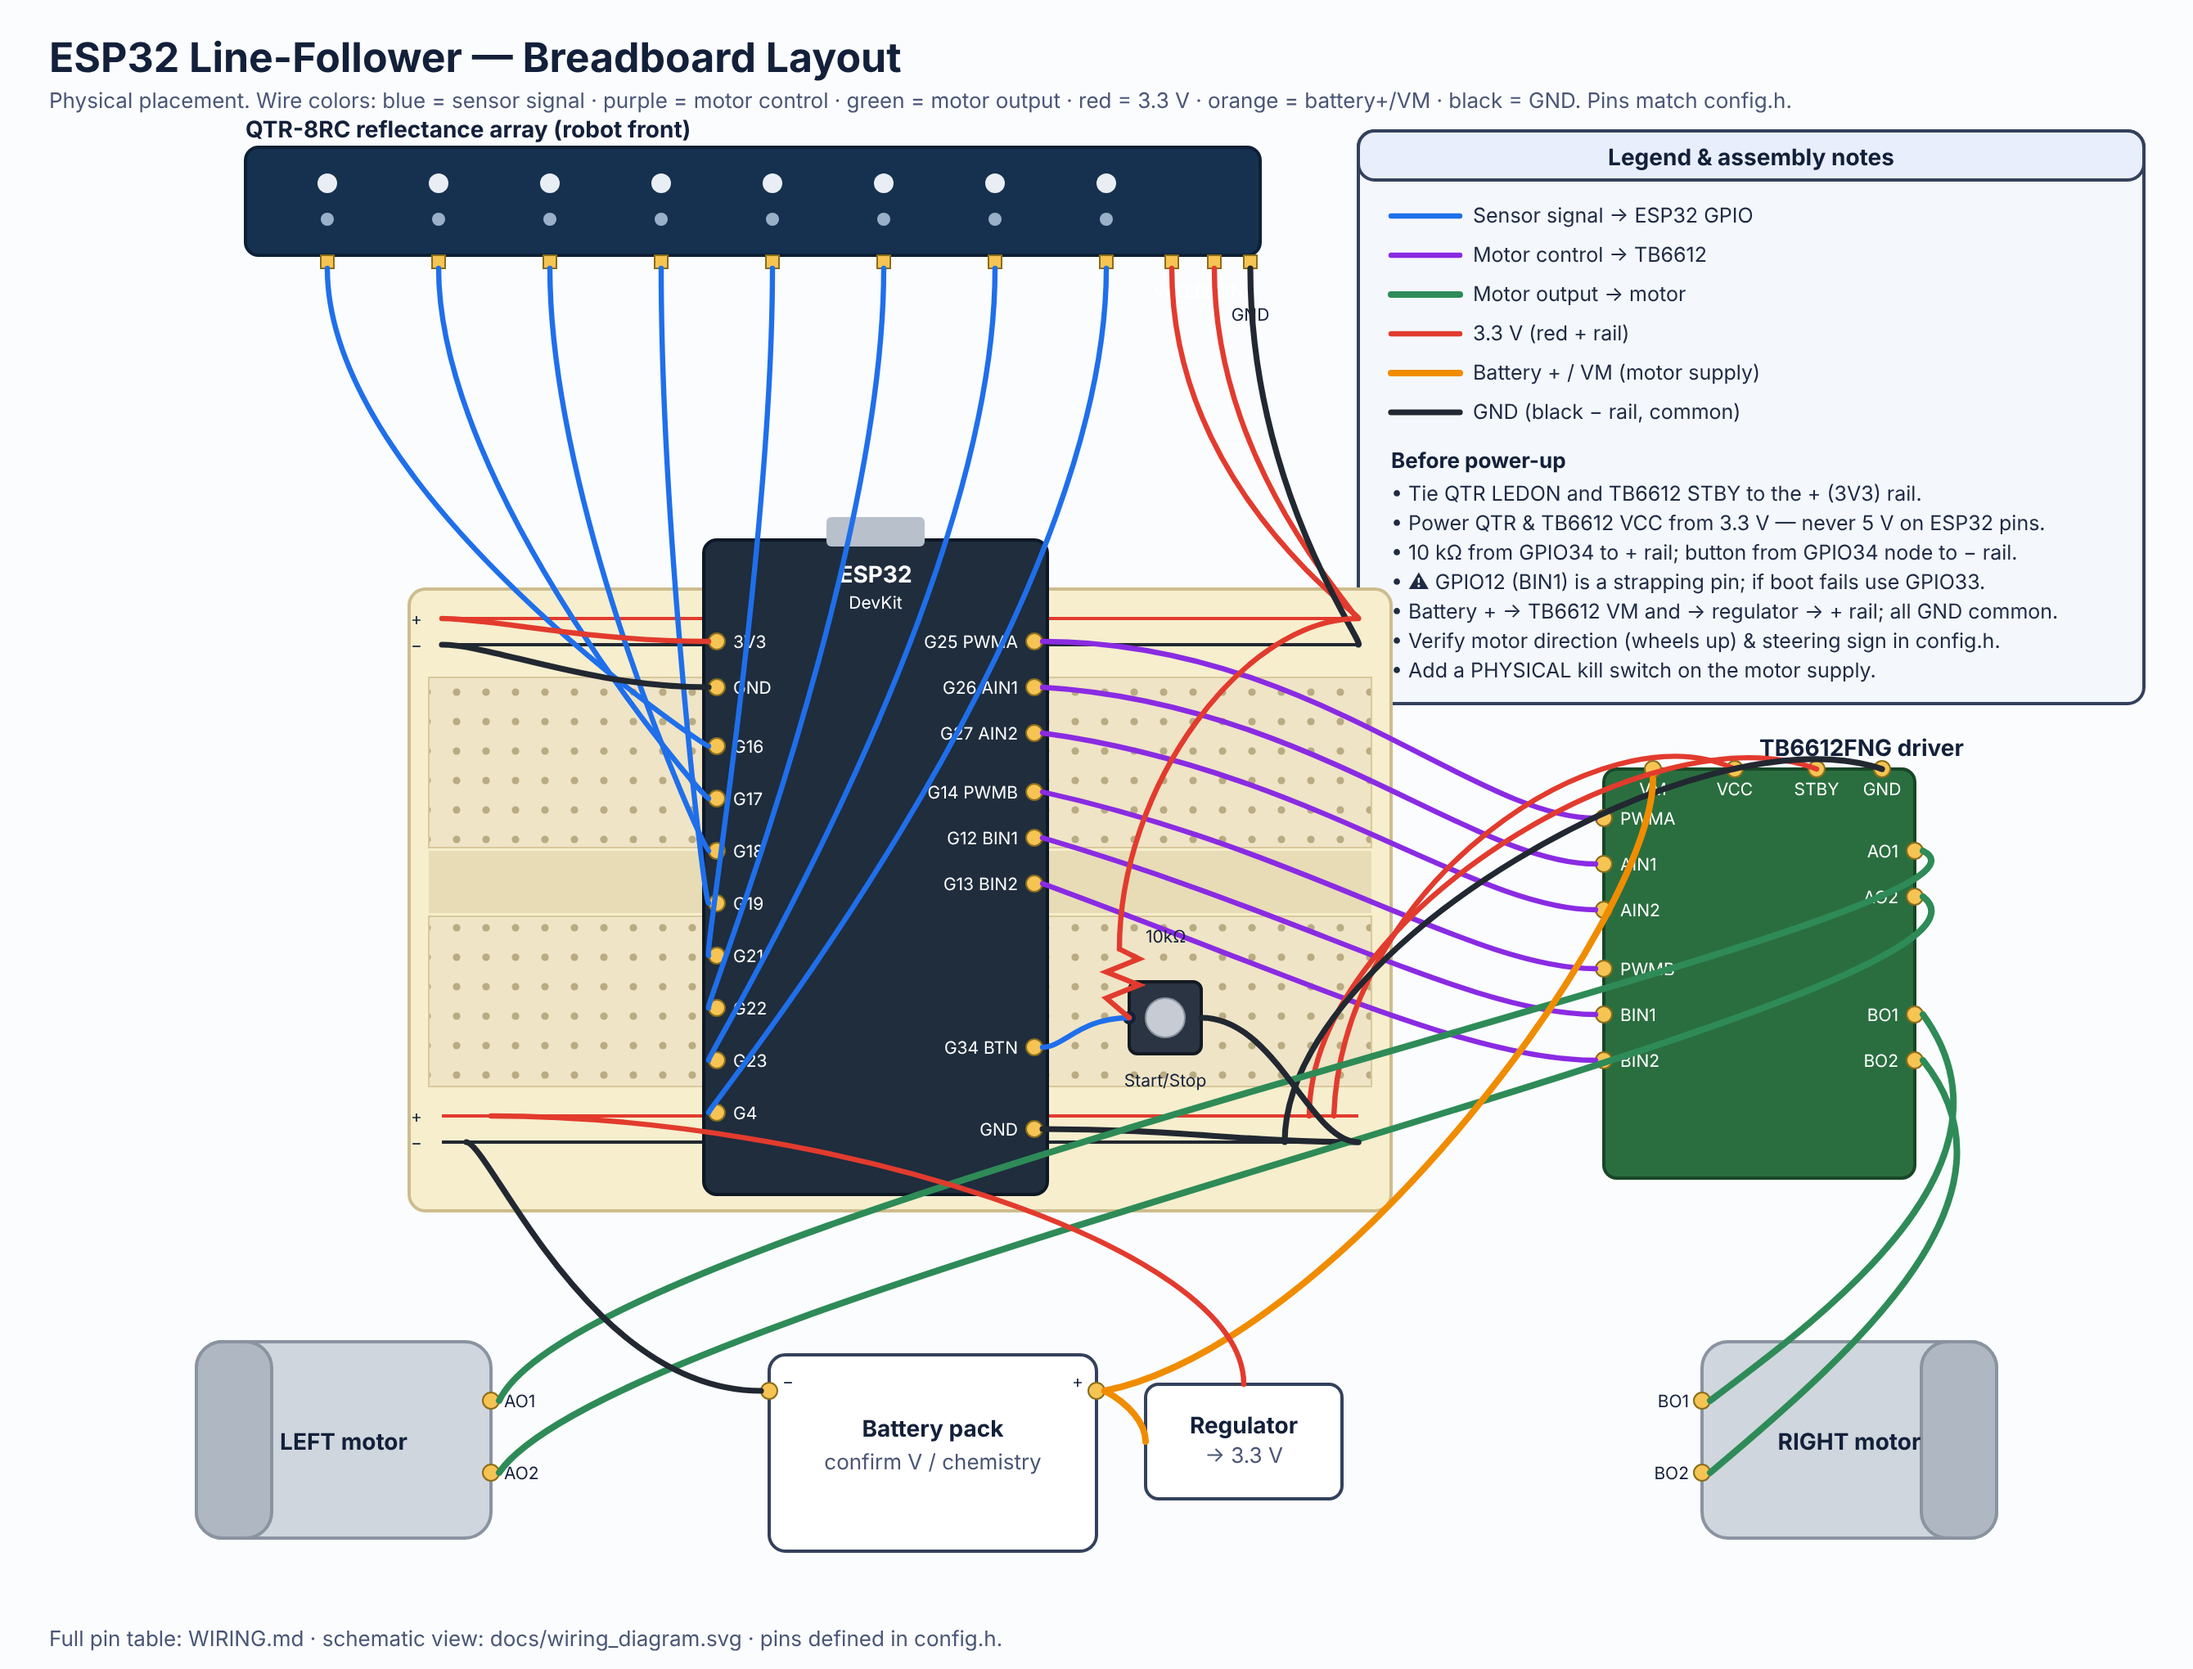
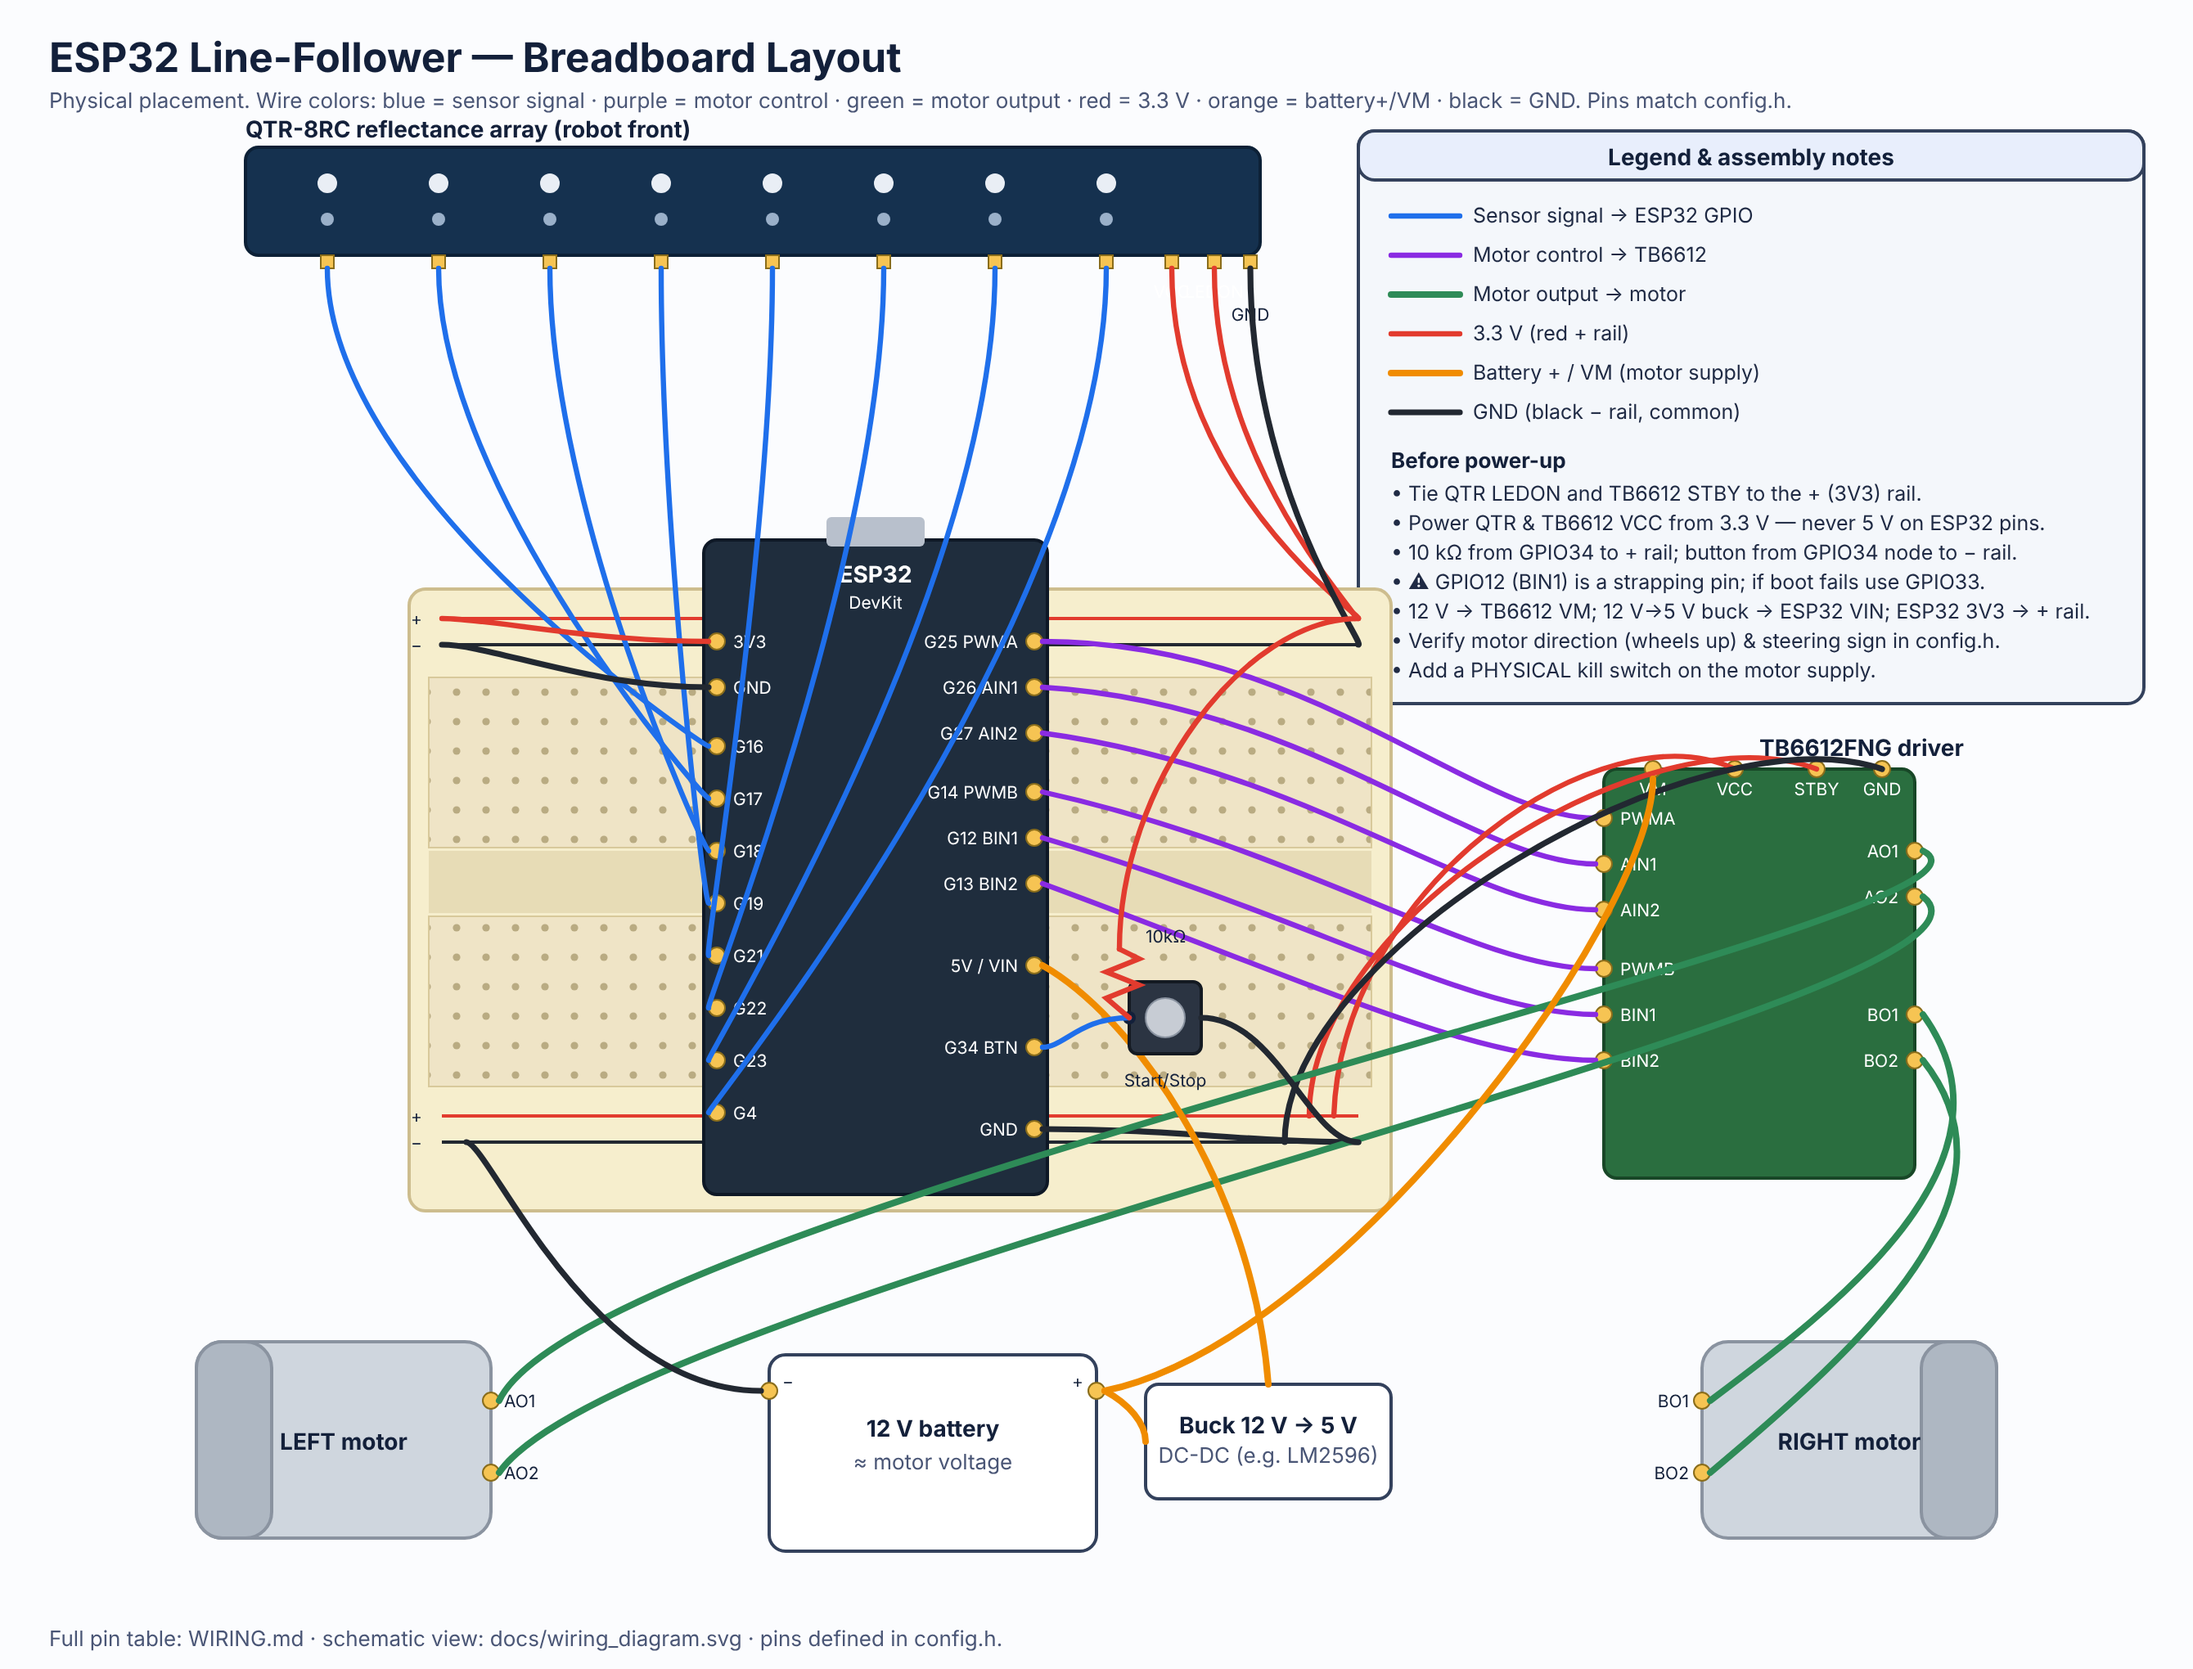
Add 12V->5V buck converter to power architecture (diagrams + WIRING)
The generic "regulator -> 3.3 V" box was wrong for a 12 V pack: 12 V must not
go to the ESP32 VIN. Correct the power chain everywhere:

- 12 V battery -> TB6612 VM (motors, full 12 V)
- 12 V -> buck (12 V->5 V, e.g. LM2596) -> ESP32 5V/VIN
- ESP32 on-board 3.3 V reg -> 3V3 out -> QTR VCC+LEDON, TB6612 VCC+STBY, button
- common ground

Updated: wiring_diagram.svg, wiring_breadboard.svg (new 5V/VIN pad, buck box),
both re-rendered PNGs, and WIRING.md power section + checklist.

Claude-Session: https://claude.ai/code/session_015XE5NZC4V1vjY9QjJ9wMEb

diff --git a/ESP32_High_Speed_Line_Follower/WIRING.md b/ESP32_High_Speed_Line_Follower/WIRING.md
@@ -102,27 +102,42 @@ GPIO34 floats and the button will read randomly.
 
 ## 2. Power architecture
 
+For a **12 V battery** (the assumed pack), the motor supply and the logic supply
+split right at the battery. The motors run on the full 12 V; the logic runs on
+3.3 V, reached via a **12 V→5 V buck converter** into the ESP32's 5V/VIN pin,
+whose on-board regulator then produces 3.3 V. **Never feed 12 V to VIN** — the
+ESP32's on-board 3.3 V regulator would overheat.
+
 ```
-            ┌───────────────┐
- Battery +──┤ VM (motors)   │  TB6612FNG
-            │               ├── AO1/AO2 → Left motor
- Battery −──┤ GND ──────────┤── BO1/BO2 → Right motor
-            └──────┬────────┘
-                   │ common ground
-   ┌───────────────┴───────────────┐
-   │ 3.3V regulator / ESP32 VIN     │  (regulated logic supply)
-   └───────────────┬───────────────┘
-                   │ 3.3V
-        ESP32 ◄────┘ ───► QTR-8RC VCC, TB6612 VCC, button pull-up
+ 12 V battery (+)──┬─────────────── 12 V ───────────────► TB6612 VM ──► motors
+                   │
+                   └── 12 V ──►[ Buck 12 V→5 V ]── 5 V ──► ESP32 5V/VIN
+                                                              │ (on-board 3.3 V reg)
+                                                     ESP32 3V3-out
+                                                              │ 3.3 V
+                                       ┌──────────────────────┼───────────────┐
+                                   QTR-8RC VCC          TB6612 VCC/STBY    GPIO34 pull-up
+                                   QTR-8RC LEDON
+
+ 12 V battery (−)────────────────── COMMON GND ───► ESP32 · QTR · TB6612 · buck
 ```
 
 Requirements:
-- **Common ground** across ESP32, TB6612, QTR board and battery negative.
-- Separate the **motor supply (VM)** from the **logic supply**. Motors inject
-  noise; brownouts reset the ESP32. Use a regulator rated for the ESP32 (the
-  DevKit's onboard regulator from `VIN`/`5V` is acceptable if your pack voltage
-  is within its input range — **CONFIRM**).
-- **Decoupling:** place a bulk electrolytic (≥ 470 µF, voltage-rated for VM)
+- **Common ground** across ESP32, TB6612, QTR board, buck converter and battery −.
+- **Motor supply = VM = 12 V** (direct from the pack). TB6612 `VM` is rated to
+  ~15 V, so 12 V is fine; **confirm your motors are rated for 12 V.**
+- **Logic supply via a 12 V→5 V buck** (DC-DC, e.g. LM2596) into ESP32 `5V`/`VIN`.
+  Size the buck for the ESP32 **plus** everything on the 3.3 V rail (QTR emitters
+  can draw ~100 mA) — a 1–2 A buck is comfortable. Do **not** run the ESP32 from
+  the 12 V pack directly, and do **not** use a linear regulator from 12 V (it
+  would dissipate a lot of heat).
+- **3.3 V comes from the ESP32's on-board regulator** (`3V3` pin) and feeds QTR
+  VCC + LEDON, TB6612 VCC + STBY and the button pull-up. If the on-board 3.3 V
+  regulator can't supply the QTR reliably, add a separate 3.3 V buck/LDO from the
+  5 V rail for the sensor board.
+- Separate the **motor supply (VM)** from the **logic supply** as above — motors
+  inject noise and brownouts reset the ESP32.
+- **Decoupling:** place a bulk electrolytic (≥ 470 µF, voltage-rated for 12 V)
   across `VM`/`GND` at the driver, plus a 0.1 µF ceramic close to `VCC`/`GND`.
 - Size the pack for stall current of both motors with margin (**CONFIRM** motor
   stall current from the datasheet).
@@ -130,6 +145,8 @@ Requirements:
 ## 3. Electrical precautions checklist
 
 - [ ] QTR logic at 3.3 V (no 5 V on ESP32 pins).
+- [ ] **12 V→5 V buck into ESP32 5V/VIN — never 12 V directly to VIN.**
+- [ ] Buck output ≈ 5 V under load; sized for ESP32 + QTR emitters.
 - [ ] External 10 kΩ pull-up on GPIO34.
 - [ ] `STBY` HIGH (or GPIO-controlled) — motors do nothing otherwise.
 - [ ] Common ground verified with a meter before applying motor power.
